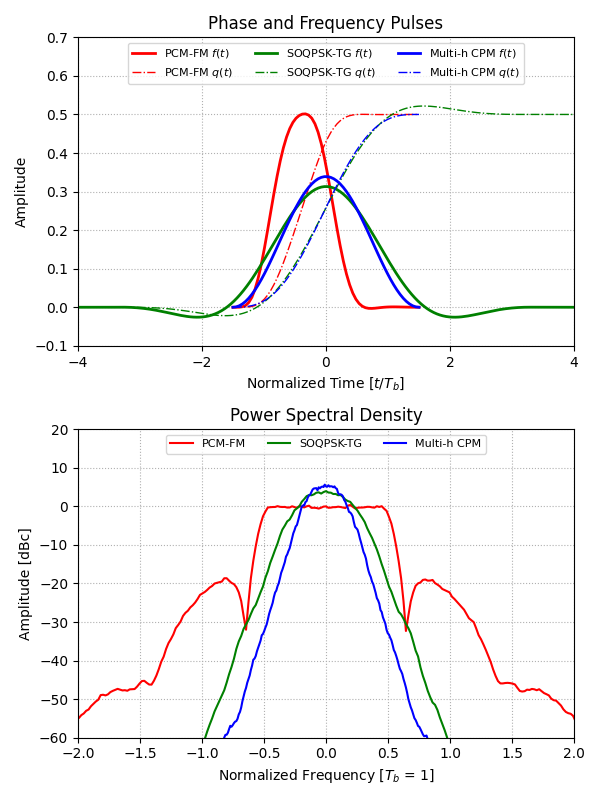
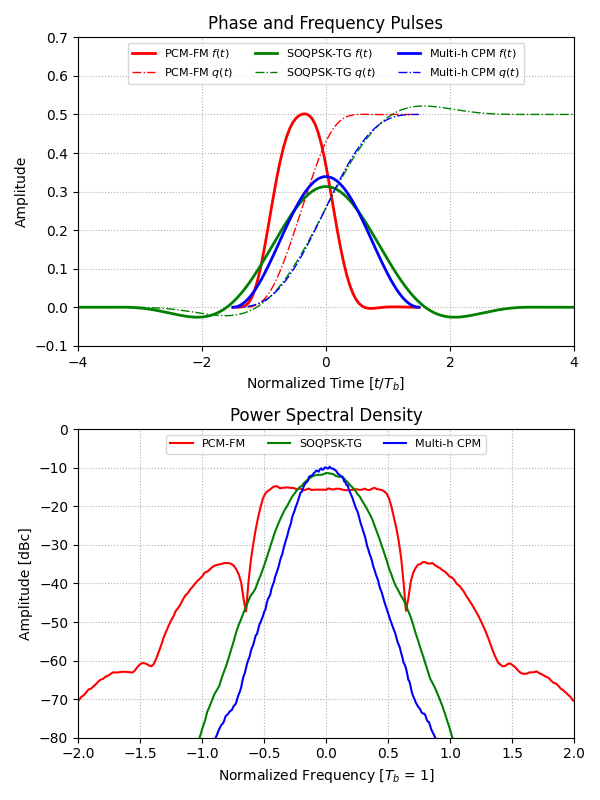
Found scaling issue with PSD, updated IRIG comparison png.

diff --git a/examples/irig_comparison.py b/examples/irig_comparison.py
@@ -29,7 +29,7 @@ from waveforms.cpm.modulate import cpm_modulate
 
 
 DATA_HEADER = b"\x1b\x1bHello World!"
-DATA_EXTRA = bytes([random.randint(0,0xff) for i in range(2000)])
+DATA_EXTRA = bytes([random.randint(0,0xff) for i in range(4000)])
 DATA_BUFFER = DATA_HEADER + DATA_EXTRA
 j = complex(0, 1)
 
@@ -119,11 +119,12 @@ if __name__ == "__main__":
         )
 
         psd_ax.psd(
-            modulated_signal,
+            modulated_signal*np.sqrt(bpsym),
             NFFT=fft_size,
-            Fs=sps / bpsym,
+            Fs=sps/bpsym,
             label=name,
             color=colors[name],
+            scale_by_freq=False
         )
 
         # normalized_time /= 2  # SOQPSK symbols are spaced at T/2
@@ -142,7 +143,7 @@ if __name__ == "__main__":
     psd_ax.set_title("Power Spectral Density")
     psd_ax.set_ylabel('Amplitude [dBc]')
     psd_ax.set_xlabel('Normalized Frequency [$T_b$ = 1]')
-    psd_ax.set_ylim([-60, 20])
+    psd_ax.set_ylim([-80, 0])
     psd_ax.yaxis.set_major_locator(MultipleLocator(10))
     psd_ax.set_xlim([-2, 2])
     psd_ax.legend(loc="upper center", fontsize=8, ncol=3)
